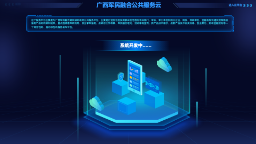
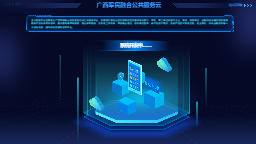
系统开发中提示页面动画添加

diff --git a/rongheyun.html b/rongheyun.html
@@ -23,13 +23,190 @@
                 dataModel = new ht.DataModel();
                 graphView = new ht.graph.GraphView(dataModel);
                 graphView.addToDOM();
+                dataModel.enableAnimation()
 
                 ht.Default.xhrLoad('displays/junminronghe/rongheyun.json', function(text) {
                     var json = ht.Default.parse(text);
                     if(json.title) document.title = json.title;
                     dataModel.deserialize(json);
                     graphView.fitContent(true);
+
+                    mainBlockAnimation(dataModel)
+                    cloudAnimation(dataModel)
+                    lineFlowAnimation(dataModel)
                 });
+            }
+            // 中间主体动画
+            function mainBlockAnimation(dm) {
+                const mainBlock = dm.getDataByTag('zhuti_block')
+                mainBlock.setAnimation({
+                    hide: {
+                        property: 'opacity',
+                        accessType: 'style',
+                        from: 1,
+                        to: 0.5,
+                        duration: 3100,
+                        next: "show"
+                    },
+                    show: {
+                        property: 'opacity',
+                        accessType: 'style',
+                        from: 0.5,
+                        to: 1,
+                        duration: 3100,
+                        next: "hide"
+
+                    },
+                    start: ['hide']
+                })
+            }
+            // 中间两个云朵动画
+            function cloudAnimation(dm) {
+                const cloudLeft = dm.getDataByTag('cloud_left')
+                const cloudRight = dm.getDataByTag('cloud_right')
+                const cloudLeftXCoordinate = cloudLeft.getPosition().x
+                const cloudRightXCoordinate = cloudRight.getPosition().x
+                cloudLeft.setAnimation({
+                    up: {
+                        from: cloudLeft.getPosition().y,
+                        to: cloudLeft.getPosition().y + 30,
+                        duration: 3100,
+                        easing: 'Linear',
+                        next: 'down',
+                        onUpdate: function(value) {
+                            this.setPosition({x: cloudLeftXCoordinate, y: value})
+                        }
+                    },
+                    down: {
+                        from: cloudLeft.getPosition().y + 30,
+                        to: cloudLeft.getPosition().y,
+                        duration: 3100,
+                        easing: 'Linear',
+                        next: 'up',
+                        onUpdate: function(value) {
+                            this.setPosition({x: cloudLeftXCoordinate, y: value})
+                        }
+                    },
+                    start: ['up']
+                })
+                cloudRight.setAnimation({
+                    down: {
+                        from: cloudRight.getPosition().y,
+                        to: cloudRight.getPosition().y - 30,
+                        duration: 4000,
+                        easing: 'Linear',
+                        next: 'up',
+                        onUpdate: function(value) {
+                            this.setPosition({x: cloudRightXCoordinate, y: value})
+                        }
+                    },
+                    up: {
+                        from: cloudRight.getPosition().y - 30,
+                        to: cloudRight.getPosition().y,
+                        duration: 4000,
+                        easing: 'Linear',
+                        next: 'down',
+                        onUpdate: function(value) {
+                            this.setPosition({x: cloudRightXCoordinate, y: value})
+                        }
+                    },
+                    start: ['down']
+                })
+            }
+            // 线条流动动画
+            function lineFlowAnimation(dm) {
+               const lineLeftFirst = dm.getDataByTag('line_left_first')
+               const lineLeftSecond = dm.getDataByTag('line_left_second')
+               const lineRightFirst = dm.getDataByTag('line_right_first')
+               const lineRightSecond = dm.getDataByTag('line_right_second')
+               const lineLeftFirstXCoordinate = lineLeftFirst.getPosition().x
+               const lineLeftSecondXCoordinate = lineLeftSecond.getPosition().x
+               const lineRightFirstXCoordinate = lineRightFirst.getPosition().x
+               const lineRightSecondXCoordinate = lineRightSecond.getPosition().x
+               lineLeftFirst.setAnimation({
+                up: {
+                        from: lineLeftFirst.getPosition().y + 100,
+                        to: lineLeftFirst.getPosition().y - 150,
+                        duration: 12000,
+                        easing: 'Linear',
+                        next: 'up',
+                        onUpdate: function(value) {
+                            this.setPosition({x: lineLeftFirstXCoordinate, y: value})
+                        }
+                    },
+                    hide: {
+                        property: 'opacity',
+                        accessType: 'style',
+                        from: 1,
+                        to: 0,
+                        duration:12000,
+                        next: "hide"
+                    },
+                    start: ['up', 'hide']
+                })
+                lineLeftSecond.setAnimation({
+                    up: {
+                        from: lineLeftSecond.getPosition().y + 50,
+                        to: lineLeftSecond.getPosition().y - 100,
+                        duration: 9000,
+                        easing: 'Linear',
+                        next: 'up',
+                        onUpdate: function(value) {
+                            this.setPosition({x: lineLeftSecondXCoordinate, y: value})
+                        }
+                    },
+                    hide: {
+                        property: 'opacity',
+                        accessType: 'style',
+                        from: 1,
+                        to: 0,
+                        duration: 9000,
+                        next: "hide"
+                    },
+                    start: ['up', 'hide']
+                })
+                lineRightFirst.setAnimation({
+                up: {
+                        from: lineRightFirst.getPosition().y + 100,
+                        to: lineRightFirst.getPosition().y - 150,
+                        duration: 12000,
+                        easing: 'Linear',
+                        next: 'up',
+                        onUpdate: function(value) {
+                            this.setPosition({x: lineRightFirstXCoordinate, y: value})
+                        }
+                    },
+                    hide: {
+                        property: 'opacity',
+                        accessType: 'style',
+                        from: 1,
+                        to: 0,
+                        duration: 12000,
+                        next: "hide"
+                    },
+                    start: ['up', 'hide']
+                })
+                lineRightSecond.setAnimation({
+                    up: {
+                        from: lineRightSecond.getPosition().y + 50,
+                        to: lineRightSecond.getPosition().y - 100,
+                        duration: 9000,
+                        easing: 'Linear',
+                        next: 'up',
+                        onUpdate: function(value) {
+                            this.setPosition({x: lineRightSecondXCoordinate, y: value})
+                        }
+                    },
+                    hide: {
+                        property: 'opacity',
+                        accessType: 'style',
+                        from: 1,
+                        to: 0,
+                        duration: 9000,
+                        next: "hide"
+                    },
+                    start: ['up', 'hide']
+                })
             }
         </script>
     </head>
